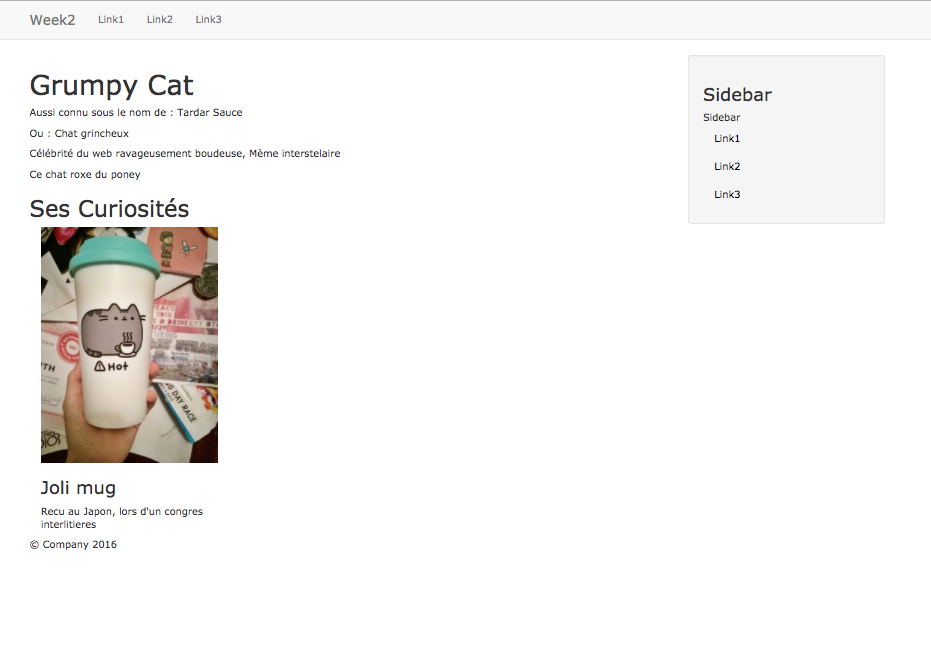
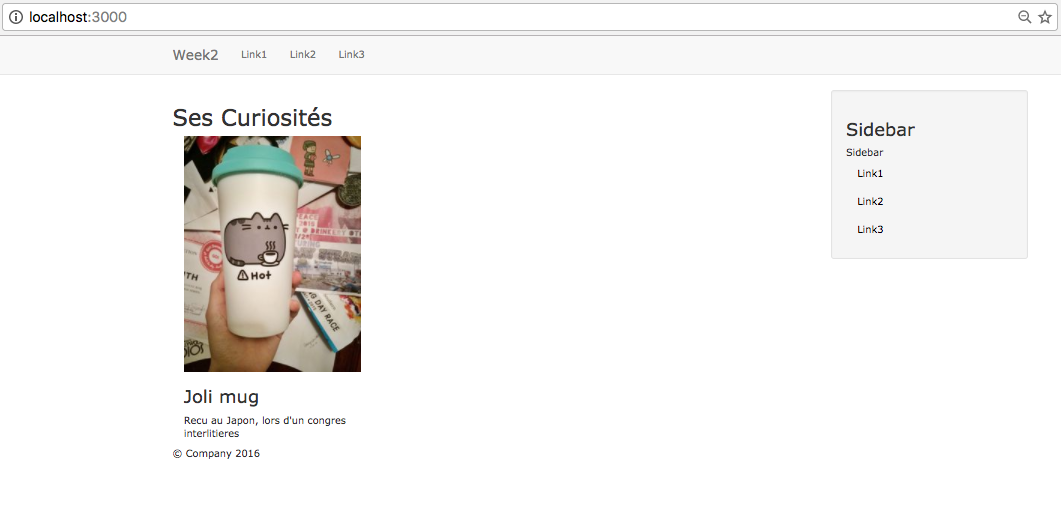
Simplify controller & view

diff --git a/app/controllers/home_controller.rb b/app/controllers/home_controller.rb
@@ -1,20 +1,5 @@
 class HomeController < ApplicationController
   def index
-	@name = 'Grumpy Cat'
-	@surname_1 = 'Aussi connu sous le nom de : Tardar Sauce'
-	@surname_2 = 'Ou : Chat grincheux'
-	@description = 'Célébrité du web ravageusement boudeuse, Mème interstelaire'
-	@comment = 'Ce chat roxe du poney'
-
-	# variable d'instance contenant un tableau de textes
-	@curiosities = [
-		'pelote de laine',
-		'tapis de souris',
-		'herbe à chat',
-		'arbre à gratter',
-		'oreilles de lapin',
-		'peluche dinosaure']
-
 	# Variable d'instance contenant un tableau de curiosités
 	@my_curiosities = Curiosity.all
   end

diff --git a/README.md b/README.md
@@ -160,9 +160,9 @@ Nous allons maintenant quitter la console Rails. Pour cela, tapez "exit" dans la
 
 ### Affichage des curiosités dans l'application
 
-Ouvrez le controleur ```app/controllers/home_controller.rb```. Il y a la méthode index qui correspond à vue index.html.erb affichant votre page d'accueil.
+Ouvrez le controleur ```app/controllers/home_controller.rb```. Il y a la méthode ```index``` qui correspond à la vue ```app/views/home/index.html.erb``` affichant votre page d'accueil.
 
-Dans cette méthode, vous allez récupérer toutes les curiosités stockées en base de donnée avec le modèle ```Curiosity```:
+Dans cette méthode, vous allez récupérer toutes les curiosités stockées en base de donnée avec le modèle ```Curiosity``` en remplaçant le code existant par :
 
 ```Ruby
 @my_curiosities = Curiosity.all
